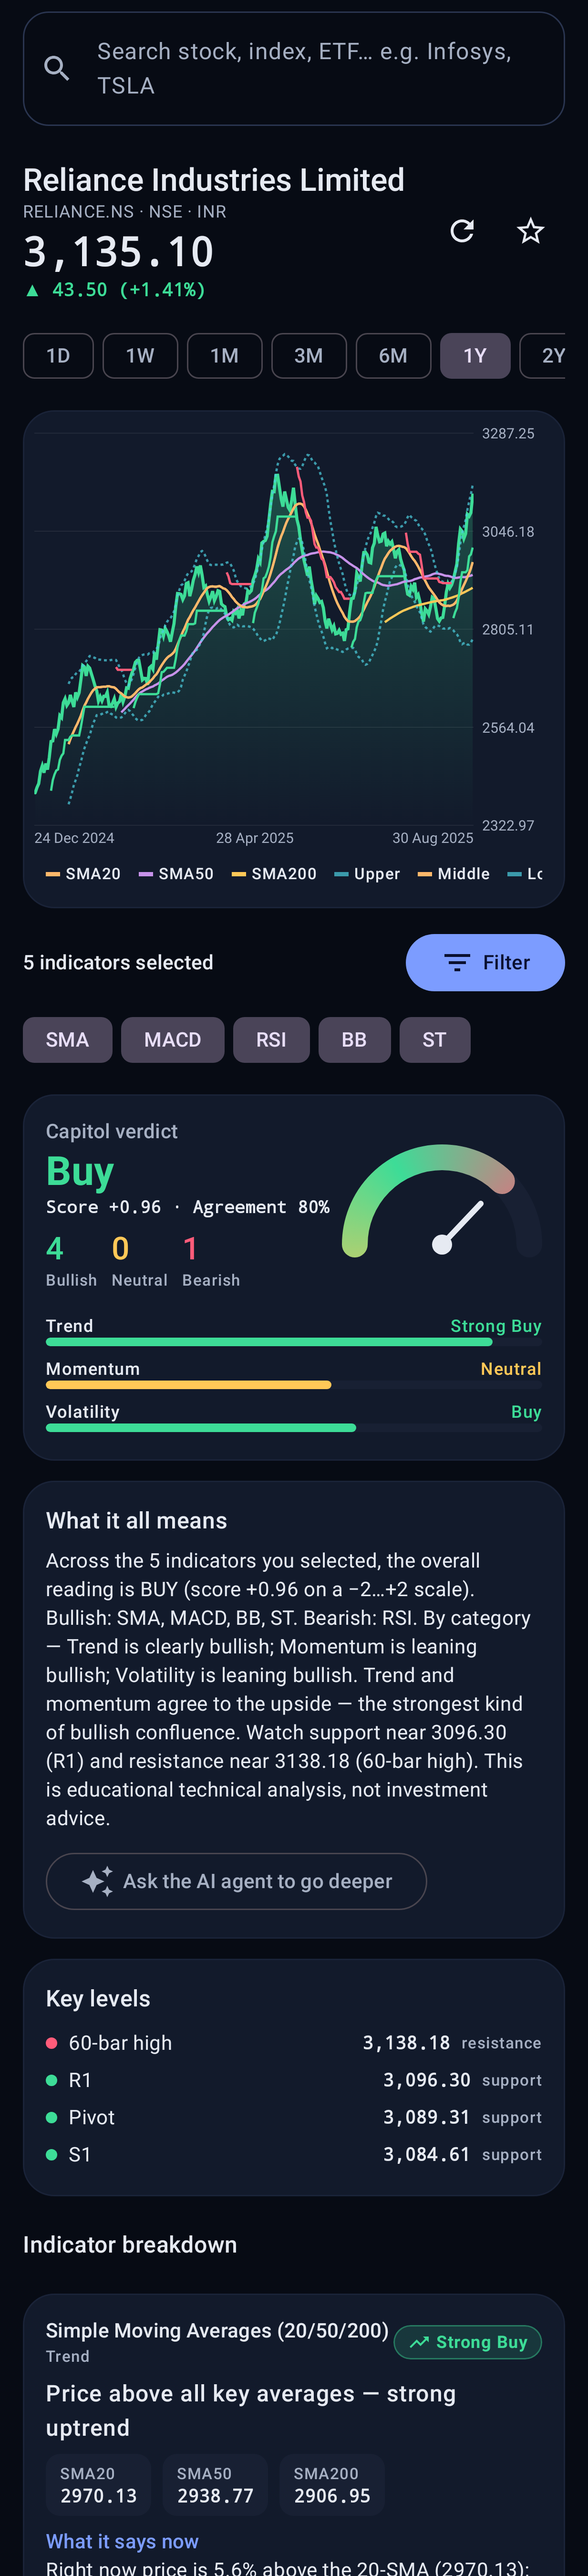
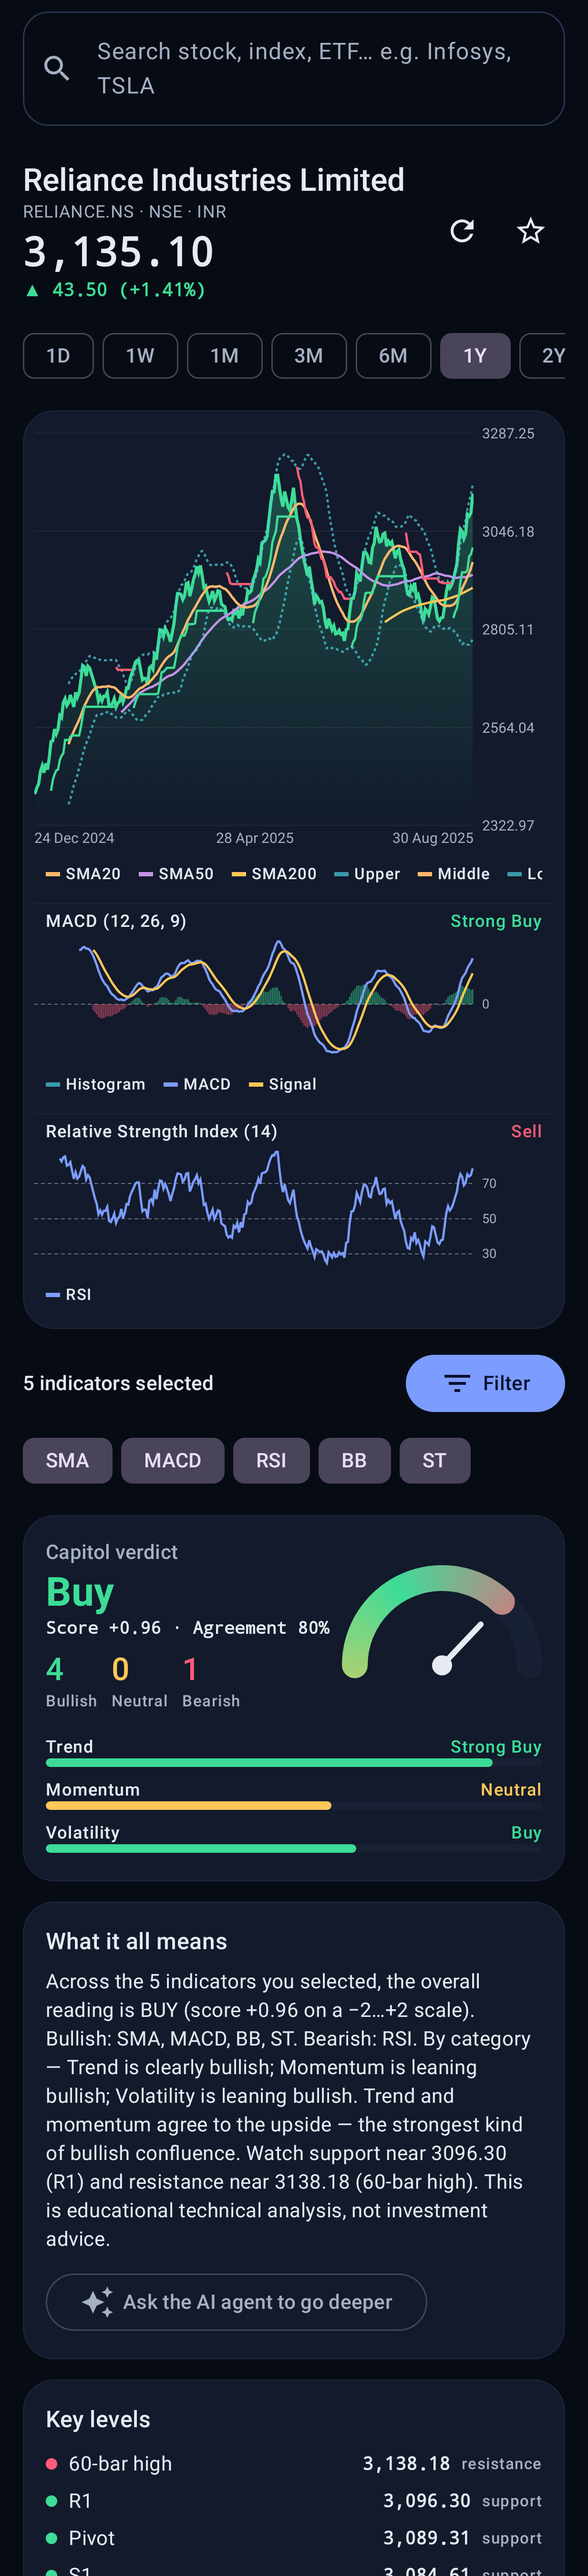
Fix home page watchlist sync, plot oscillators on chart, support US stocks in CSV import (#2)
* Add Capitol Android app: technical analysis, watchlist, AI agent, broker sync

- Kotlin/Jetpack Compose app with animated home page, dark/light themes
- Yahoo Finance data via yfinance endpoints on-device, or a bundled
  FastAPI service that wraps yfinance directly (backend/)
- 21 indicators with multi-select filter, per-indicator live explanations,
  composite verdict, key levels and synthesis of the selected set
- Watchlist with price alerts and background autopilot notifications
- Claude-powered agent (anthropic-java) using on-device analysis tools
- Read-only Zerodha Kite Connect and INDmoney (INDstocks) holdings sync,
  plus CSV import
- In-app updates: Play in-app update flow + GitHub Releases self-updater
- CI workflow building, testing and publishing release APKs
- Unit tests for indicator math, analyzer and parsers; screenshot tests

Claude-Session: https://claude.ai/code/session_01MYsMHGTrNtxnE7gzxN54RY

* Fix home page not reflecting watchlist changes; plot oscillators on the analysis chart

- HomeViewModel now observes the watchlist and default indicators and
  refreshes movers, heatmap, mood and breadth whenever they change
- Watchlist verdicts are recomputed when default indicators change
- Analysis chart draws every selected separate-pane indicator (RSI, MACD,
  Stochastic, ADX, OBV, MFI, CCI, %R, ROC, ATR, Volume) as a labelled pane
  under the price chart, with a hint when nothing is selected
[…]

Changed region(s): [[0.0308, 0.3422, 0.9862, 1.0]]

diff --git a/app/src/main/java/com/capitol/app/ui/portfolio/PortfolioScreen.kt b/app/src/main/java/com/capitol/app/ui/portfolio/PortfolioScreen.kt
@@ -32,6 +32,7 @@ import androidx.compose.material3.LinearProgressIndicator
 import androidx.compose.material3.MaterialTheme
 import androidx.compose.material3.OutlinedButton
 import androidx.compose.material3.OutlinedTextField
+import androidx.compose.material3.Switch
 import androidx.compose.material3.Text
 import androidx.compose.material3.TextButton
 import androidx.compose.runtime.Composable
@@ -52,6 +53,7 @@ import androidx.lifecycle.ViewModel
 import androidx.lifecycle.compose.collectAsStateWithLifecycle
 import androidx.lifecycle.viewModelScope
 import com.capitol.app.AppContainer
+import com.capitol.app.data.broker.CurrencyTotal
 import com.capitol.app.data.broker.Holding
 import com.capitol.app.data.broker.KiteConnectClient
 import com.capitol.app.data.prefs.SecretStore.Key
@@ -84,7 +86,11 @@ class PortfolioViewModel(val c: AppContainer) : ViewModel() {
     fun kiteLogout() { kite.logout(); refresh() }
     fun saveIndToken(token: String) { c.secrets.put(Key.INDMONEY_ACCESS_TOKEN, token); refresh() }
     fun indDisconnect() { ind.disconnect(); refresh() }
-    fun importCsv(text: String) { message.value = "Imported ${c.portfolio.importCsv(text)} holdings from CSV" }
+    fun importCsv(text: String, usStocks: Boolean) {
+        val n = c.portfolio.importCsv(text, usStocks)
+        message.value = if (n == 0) "No holdings found — the CSV needs symbol and quantity columns"
+        else "Imported $n ${if (usStocks) "US" else "Indian"} holdings from CSV"
+    }
 }
 
 @Composable
@@ -94,8 +100,9 @@ fun PortfolioScreen(vm: PortfolioViewModel, onAnalyze: (String) -> Unit, onAskAi
     val secretsV by vm.secretsVersion.collectAsStateWithLifecycle()
     var kiteLoginUrl by remember { mutableStateOf<String?>(null) }
     val ctx = LocalContext.current
+    var csvIsUs by remember { mutableStateOf(false) }
     val csvPicker = rememberLauncherForActivityResult(ActivityResultContracts.OpenDocument()) { uri ->
-        uri?.let { ctx.contentResolver.openInputStream(it)?.bufferedReader()?.use { r -> vm.importCsv(r.readText()) } }
+        uri?.let { ctx.contentResolver.openInputStream(it)?.bufferedReader()?.use { r -> vm.importCsv(r.readText(), csvIsUs) } }
     }
 
     LazyColumn(Modifier.fillMaxSize().statusBarsPadding(), contentPadding = PaddingValues(16.dp), verticalArrangement = Arrangement.spacedBy(12.dp)) {
@@ -113,7 +120,7 @@ fun PortfolioScreen(vm: PortfolioViewModel, onAnalyze: (String) -> Unit, onAskAi
         msg?.let { item { Text(it, color = MaterialTheme.colorScheme.primary) } }
         st.errors.forEach { e -> item { ErrorBanner(e) } }
         if (st.holdings.isNotEmpty()) {
-            item { SummaryCard(st.invested, st.current, st.pnl, st.pnlPercent) {
+            item { SummaryCard(st.totalsByCurrency) {
                 onAskAi("Review my portfolio holdings technically. Which positions look strongest and weakest, and what levels should I watch?")
             } }
             item { SectionTitle("Holdings (${st.holdings.size})") }
@@ -125,8 +132,17 @@ fun PortfolioScreen(vm: PortfolioViewModel, onAnalyze: (String) -> Unit, onAskAi
         item {
             CapitolCard {
                 Text("Import holdings CSV", style = MaterialTheme.typography.titleMedium)
-                Text("Export holdings from INDmoney (or any broker) and import them. Needs columns: symbol, quantity, average price (optional: ltp, exchange).",
+                Text("Export holdings from INDmoney (or any broker) and import them. Needs columns: symbol, quantity, average price (optional: ltp, exchange). Import Indian and US files separately — each import replaces earlier holdings of the same market.",
                     style = MaterialTheme.typography.bodySmall)
+                Spacer(Modifier.height(8.dp))
+                Row(verticalAlignment = Alignment.CenterVertically) {
+                    Column(Modifier.weight(1f)) {
+                        Text("These are US stocks", style = MaterialTheme.typography.bodyLarge)
+                        Text("Tickers like AAPL, NVDA (no .NS suffix), values in USD", style = MaterialTheme.typography.bodySmall,
+                            color = MaterialTheme.colorScheme.onSurfaceVariant)
+                    }
+                    Switch(csvIsUs, { csvIsUs = it })
+                }
                 Spacer(Modifier.height(8.dp))
                 OutlinedButton({ csvPicker.launch(arrayOf("text/*", "text/csv", "application/vnd.ms-excel")) }) {
                     Icon(Icons.Default.UploadFile, null); Spacer(Modifier.width(6.dp)); Text("Choose CSV")
@@ -141,13 +157,17 @@ fun PortfolioScreen(vm: PortfolioViewModel, onAnalyze: (String) -> Unit, onAskAi
 }
 
 @Composable
-private fun SummaryCard(invested: Double, current: Double, pnl: Double, pct: Double, onAskAi: () -> Unit) {
+private fun SummaryCard(totals: List<CurrencyTotal>, onAskAi: () -> Unit) {
     CapitolCard {
-        Text("Current value", style = MaterialTheme.typography.labelLarge, color = MaterialTheme.colorScheme.onSurfaceVariant)
-        AnimatedNumber(current, fontSize = 30)
-        Row {
-            Text("Invested %,.2f".format(invested), style = MaterialTheme.typography.bodySmall, modifier = Modifier.weight(1f))
-            Text("P&L %+,.2f (%+.2f%%)".format(pnl, pct), color = changeColor(pnl), style = NumberStyle.copy(fontSize = 13.sp))
+        totals.forEachIndexed { i, t ->
+            if (i > 0) Spacer(Modifier.height(10.dp))
+            Text("Current value · ${if (t.currency == "USD") "US stocks" else "Indian stocks"}", style = MaterialTheme.typography.labelLarge,
+                color = MaterialTheme.colorScheme.onSurfaceVariant)
+            AnimatedNumber(t.current, fontSize = 28, format = { "${t.symbol}%,.2f".format(it) })
+            Row {
+                Text("Invested ${t.symbol}%,.2f".format(t.invested), style = MaterialTheme.typography.bodySmall, modifier = Modifier.weight(1f))
+                Text("P&L %+,.2f (%+.2f%%)".format(t.pnl, t.pnlPercent), color = changeColor(t.pnl), style = NumberStyle.copy(fontSize = 13.sp))
+            }
         }
         Spacer(Modifier.height(8.dp))
         OutlinedButton(onAskAi) { Icon(Icons.Default.AutoAwesome, null); Spacer(Modifier.width(6.dp)); Text("AI portfolio review") }
@@ -160,11 +180,11 @@ private fun HoldingRow(h: Holding, onClick: () -> Unit) {
         Row(verticalAlignment = Alignment.CenterVertically) {
             Column(Modifier.weight(1f)) {
                 Text(h.tradingSymbol, style = MaterialTheme.typography.titleSmall)
-                Text("${h.broker.label} · ${h.exchange} · ${"%.0f".format(h.quantity)} @ ${"%,.2f".format(h.averagePrice)}",
+                Text("${h.broker.label} · ${h.exchange} · ${"%.4g".format(h.quantity)} @ ${"%,.2f".format(h.averagePrice)}",
                     style = MaterialTheme.typography.bodySmall, color = MaterialTheme.colorScheme.onSurfaceVariant)
             }
             Column(horizontalAlignment = Alignment.End) {
-                Text("%,.2f".format(h.current), style = NumberStyle.copy(fontSize = 14.sp))
+                Text((if (h.isUs) "$" else "₹") + "%,.2f".format(h.current), style = NumberStyle.copy(fontSize = 14.sp))
                 Text("%+,.2f (%+.1f%%)".format(h.pnl, h.pnlPercent), color = changeColor(h.pnl), style = NumberStyle.copy(fontSize = 12.sp))
             }
         }

diff --git a/app/src/main/java/com/capitol/app/ui/analysis/AnalysisScreen.kt b/app/src/main/java/com/capitol/app/ui/analysis/AnalysisScreen.kt
@@ -154,6 +154,20 @@ fun AnalysisScreen(vm: AnalysisViewModel, initialSymbol: String?, onAskAi: (Stri
                     CapitolCard(padding = PaddingValues(8.dp)) {
                         PriceChart(series.candles, overlays = overlays, levels = levels, mode = chartMode, intraday = st.range.isIntraday, height = 300.dp)
                         if (overlays.isNotEmpty()) Legend(overlays.map { it.name to it.role })
+                        // Oscillators / volume indicators get their own stacked panes under the price chart.
+                        report?.results?.filter { it.available && it.type.pane == Pane.SEPARATE && it.lines.isNotEmpty() }?.forEach { r ->
+                            HorizontalDivider(Modifier.padding(vertical = 4.dp), color = MaterialTheme.colorScheme.outline.copy(alpha = 0.3f))
+                            Row(Modifier.padding(horizontal = 8.dp), verticalAlignment = Alignment.CenterVertically) {
+                                Text(r.type.title, style = MaterialTheme.typography.labelMedium, modifier = Modifier.weight(1f), maxLines = 1, overflow = TextOverflow.Ellipsis)
+                                Text(r.signal.label, style = MaterialTheme.typography.labelMedium, color = signalColor(r.signal))
+                            }
+                            IndicatorPane(r.lines, levels = r.levels, height = 90.dp)
+                            Legend(r.lines.map { it.name to it.role })
+                        }
+                        if (overlays.isEmpty() && report?.results?.none { it.available && it.type.pane == Pane.SEPARATE } == true) {
+                            Text("Select indicators with the Filter button to plot them here.", style = MaterialTheme.typography.bodySmall,
+                                color = MaterialTheme.colorScheme.onSurfaceVariant, modifier = Modifier.padding(8.dp))
+                        }
                     }
                 }
             }
@@ -408,10 +422,6 @@ private fun IndicatorCard(r: IndicatorResult) {
                     }
                 }
             }
-        }
-        if (r.available && r.type.pane == Pane.SEPARATE && r.lines.isNotEmpty()) {
-            Spacer(Modifier.height(8.dp))
-            IndicatorPane(r.lines, levels = r.levels, height = 110.dp)
         }
         Spacer(Modifier.height(8.dp))
         Text("What it says now", style = MaterialTheme.typography.labelLarge, color = MaterialTheme.colorScheme.primary)

diff --git a/app/src/main/java/com/capitol/app/ui/home/HomeViewModel.kt b/app/src/main/java/com/capitol/app/ui/home/HomeViewModel.kt
@@ -14,6 +14,11 @@ import kotlinx.coroutines.flow.MutableStateFlow
 import kotlinx.coroutines.flow.StateFlow
 import kotlinx.coroutines.flow.asStateFlow
 import kotlinx.coroutines.flow.first
+import kotlinx.coroutines.coroutineScope
+import kotlinx.coroutines.flow.combine
+import kotlinx.coroutines.flow.distinctUntilChanged
+import kotlinx.coroutines.flow.drop
+import kotlinx.coroutines.flow.map
 import kotlinx.coroutines.launch
 
 data class MarketIndex(val symbol: String, val label: String, val region: String)
@@ -37,7 +42,30 @@ class HomeViewModel(private val c: AppContainer) : ViewModel() {
     private val _state = MutableStateFlow(HomeState())
     val state: StateFlow<HomeState> = _state.asStateFlow()
 
-    init { refresh() }
+    init {
+        refresh()
+        // Keep the home page in sync with the watchlist and default indicators.
+        viewModelScope.launch {
+            combine(
+                c.watchlist.items.map { items -> items.map { it.symbol } },
+                c.settings.settings.map { it.defaultIndicators },
+            ) { symbols, inds -> symbols to inds }
+                .distinctUntilChanged()
+                .drop(1) // the initial value is already handled by refresh()
+                .collect { (symbols, inds) -> refreshWatch(symbols, inds) }
+        }
+    }
+
+    /** Reloads only the watchlist-driven sections (movers, heatmap, mood, breadth). */
+    private suspend fun refreshWatch(symbols: List<String>, inds: Set<com.capitol.app.analysis.IndicatorType>) {
+        val series = coroutineScope {
+            symbols.map { s -> async { runCatching { c.market.history(s, ChartRange.Y1) }.getOrNull() } }.awaitAll().filterNotNull()
+        }
+        _state.value = _state.value.copy(
+            watch = series.map { s -> QuoteSnapshot(s.symbol, s.name, s.regularMarketPrice, s.change, s.changePercent, s.currency, s.closes.takeLast(40)) },
+            signals = series.map { TechnicalAnalyzer.analyze(it, inds) }.sortedByDescending { it.compositeScore },
+        )
+    }
 
     fun selectHero(index: MarketIndex) {
         _state.value = _state.value.copy(heroIndex = index)

diff --git a/app/src/main/java/com/capitol/app/data/broker/IndMoneyClient.kt b/app/src/main/java/com/capitol/app/data/broker/IndMoneyClient.kt
@@ -77,8 +77,10 @@ class IndMoneyClient(private val http: OkHttpClient, private val secrets: Secret
         /**
          * Parses a holdings CSV exported from INDmoney (or any broker). Expected columns
          * (case-insensitive, any order): symbol, quantity, avg price[, ltp][, exchange].
+         * Rows without a recognised exchange use [defaultExchange]: "NSE" for Indian
+         * stocks or "US" for US stocks. An explicit exchange column always wins.
          */
-        fun parseCsv(text: String): List<Holding> {
+        fun parseCsv(text: String, defaultExchange: String = "NSE"): List<Holding> {
             val lines = text.lines().map { it.trim() }.filter { it.isNotEmpty() }
             if (lines.size < 2) return emptyList()
             val header = lines.first().split(',').map { it.trim().lowercase().replace("\"", "") }
@@ -94,8 +96,16 @@ class IndMoneyClient(private val http: OkHttpClient, private val secrets: Secret
                 val sym = c.getOrNull(iSym)?.takeIf { it.isNotBlank() } ?: return@mapNotNull null
                 val qty = c.getOrNull(iQty)?.toDoubleOrNull() ?: return@mapNotNull null
                 val avg = c.getOrNull(iAvg)?.toDoubleOrNull() ?: 0.0
-                Holding(Broker.INDMONEY, sym.uppercase(), c.getOrNull(iEx)?.uppercase() ?: "NSE", qty, avg,
-                    c.getOrNull(iLtp)?.toDoubleOrNull() ?: avg, null)
+                val rawEx = c.getOrNull(iEx)?.trim()?.uppercase().orEmpty()
+                val ex = when {
+                    Holding.isUsExchange(rawEx) -> "US"
+                    rawEx.contains("BSE") -> "BSE"
+                    rawEx.contains("NSE") -> "NSE"
+                    else -> defaultExchange
+                }
+                // Strip Yahoo-style suffixes so ".NS"/".BO" tickers aren't doubled up.
+                val clean = sym.uppercase().removeSuffix(".NS").removeSuffix(".BO")
+                Holding(Broker.INDMONEY, clean, ex, qty, avg, c.getOrNull(iLtp)?.toDoubleOrNull() ?: avg, null)
             }
         }
     }

diff --git a/app/src/main/java/com/capitol/app/data/broker/PortfolioRepository.kt b/app/src/main/java/com/capitol/app/data/broker/PortfolioRepository.kt
@@ -12,10 +12,16 @@ data class PortfolioState(
     val loading: Boolean = false,
     val updatedAt: Long? = null,
 ) {
-    val invested get() = holdings.sumOf { it.invested }
-    val current get() = holdings.sumOf { it.current }
+    /** Totals per currency — INR and USD holdings are never summed together. */
+    val totalsByCurrency: List<CurrencyTotal> get() = holdings.groupBy { it.currency }.map { (ccy, hs) ->
+        CurrencyTotal(ccy, hs.sumOf { it.invested }, hs.sumOf { it.current })
+    }.sortedBy { if (it.currency == "INR") 0 else 1 }
+}
+
+data class CurrencyTotal(val currency: String, val invested: Double, val current: Double) {
     val pnl get() = current - invested
     val pnlPercent get() = if (invested == 0.0) 0.0 else pnl / invested * 100
+    val symbol get() = when (currency) { "INR" -> "₹"; "USD" -> "$"; else -> "$currency " }
 }
 
 class PortfolioRepository(val kite: KiteConnectClient, val indmoney: IndMoneyClient) {
@@ -36,11 +42,17 @@ class PortfolioRepository(val kite: KiteConnectClient, val indmoney: IndMoneyCli
         )
     }
 
-    fun importCsv(text: String): Int {
+    /**
+     * Imports a holdings CSV. Re-importing replaces earlier imported holdings of the
+     * same market (India or US), so an Indian and a US file can both be loaded.
+     */
+    fun importCsv(text: String, usStocks: Boolean = false): Int {
         val previous = imported
-        imported = IndMoneyClient.parseCsv(text)
+        val parsed = IndMoneyClient.parseCsv(text, if (usStocks) "US" else "NSE")
+        val markets = parsed.map { it.isUs }.toSet()
+        imported = previous.filterNot { it.isUs in markets } + parsed
         _state.value = _state.value.copy(holdings = _state.value.holdings.filter { it !in previous } + imported)
-        return imported.size
+        return parsed.size
     }
 
     val anyConnected get() = kite.isConnected || indmoney.isConnected || imported.isNotEmpty()

diff --git a/app/src/main/java/com/capitol/app/agent/AgentTools.kt b/app/src/main/java/com/capitol/app/agent/AgentTools.kt
@@ -122,8 +122,10 @@ class AgentTools(
                 portfolio.refresh()
                 val st = portfolio.state.value
                 (st.holdings.joinToString("\n") {
-                    "${it.yahooSymbol} [${it.broker.label}] qty ${it.quantity}, avg ${"%.2f".format(it.averagePrice)}, LTP ${"%.2f".format(it.lastPrice)}, P&L ${"%.2f".format(it.pnl)} (${"%+.2f".format(it.pnlPercent)}%)"
-                } + "\nTotal invested ${"%.2f".format(st.invested)}, current ${"%.2f".format(st.current)}, P&L ${"%+.2f".format(st.pnlPercent)}%" +
+                    "${it.yahooSymbol} [${it.broker.label}, ${it.currency}] qty ${it.quantity}, avg ${"%.2f".format(it.averagePrice)}, LTP ${"%.2f".format(it.lastPrice)}, P&L ${"%.2f".format(it.pnl)} (${"%+.2f".format(it.pnlPercent)}%)"
+                } + st.totalsByCurrency.joinToString("") { t ->
+                    "\nTotal (${t.currency}): invested ${"%.2f".format(t.invested)}, current ${"%.2f".format(t.current)}, P&L ${"%+.2f".format(t.pnlPercent)}%"
+                } +
                     st.errors.joinToString("") { "\nError: $it" })
             }
         }

diff --git a/app/src/main/java/com/capitol/app/data/broker/Holding.kt b/app/src/main/java/com/capitol/app/data/broker/Holding.kt
@@ -16,11 +16,19 @@ data class Holding(
     val pnl get() = current - invested
     val pnlPercent get() = if (invested == 0.0) 0.0 else pnl / invested * 100
 
-    /** Symbol in yfinance / Yahoo notation (NSE → .NS, BSE → .BO). */
-    val yahooSymbol: String get() = when (exchange.uppercase()) {
-        "NSE" -> "$tradingSymbol.NS"
-        "BSE" -> "$tradingSymbol.BO"
-        else -> tradingSymbol
+    val isUs: Boolean get() = isUsExchange(exchange)
+    val currency: String get() = if (isUs) "USD" else "INR"
+
+    /** Symbol in yfinance / Yahoo notation (NSE → .NS, BSE → .BO, US tickers unchanged). */
+    val yahooSymbol: String get() = when {
+        isUs -> tradingSymbol
+        exchange.equals("BSE", true) -> "$tradingSymbol.BO"
+        else -> "$tradingSymbol.NS"
+    }
+
+    companion object {
+        private val US_EXCHANGES = setOf("US", "USA", "NASDAQ", "NYSE", "AMEX", "NYSEARCA", "ARCA", "BATS", "NMS", "NYQ", "NGM", "NCM")
+        fun isUsExchange(ex: String) = ex.trim().uppercase().replace(" ", "") in US_EXCHANGES
     }
 }
 

diff --git a/app/src/main/java/com/capitol/app/ui/watchlist/WatchlistScreen.kt b/app/src/main/java/com/capitol/app/ui/watchlist/WatchlistScreen.kt
@@ -69,6 +69,9 @@ import kotlinx.coroutines.flow.MutableStateFlow
 import kotlinx.coroutines.flow.StateFlow
 import kotlinx.coroutines.flow.asStateFlow
 import kotlinx.coroutines.flow.first
+import kotlinx.coroutines.flow.distinctUntilChanged
+import kotlinx.coroutines.flow.drop
+import kotlinx.coroutines.flow.map
 import kotlinx.coroutines.launch
 
 data class WatchRow(val item: WatchItem, val series: PriceSeries?, val report: AnalysisReport?)
@@ -87,6 +90,12 @@ class WatchlistViewModel(private val c: AppContainer) : ViewModel() {
                 publish(items)
                 val missing = items.filter { it.symbol !in cache }
                 if (missing.isNotEmpty()) load(missing)
+            }
+        }
+        viewModelScope.launch {
+            c.settings.settings.map { it.defaultIndicators }.distinctUntilChanged().drop(1).collect { inds ->
+                cache.replaceAll { _, (s, _) -> s to s?.let { TechnicalAnalyzer.analyze(it, inds) } }
+                publish(c.watchlist.current())
             }
         }
     }

diff --git a/app/src/test/java/com/capitol/app/AnalyzerTest.kt b/app/src/test/java/com/capitol/app/AnalyzerTest.kt
@@ -70,6 +70,17 @@ class AnalyzerTest {
         assertEquals(1000.0, h[0].pnl, 1e-9)
     }
 
+    @Test fun csvImportUsStocks() {
+        // No exchange column: the "US stocks" switch decides.
+        val us = IndMoneyClient.parseCsv("Symbol,Quantity,Avg Price,LTP\nAAPL,2.5,180,230\nNVDA,5,95,140", defaultExchange = "US")
+        assertEquals(listOf("AAPL", "NVDA"), us.map { it.yahooSymbol })
+        assertTrue(us.all { it.currency == "USD" })
+        // Explicit exchange column wins over the default; Yahoo suffixes are not doubled.
+        val mixed = IndMoneyClient.parseCsv("Symbol,Qty,Avg Price,Exchange\nTSLA,1,200,NASDAQ\nINFY.NS,3,1500,\nTCS,1,3500,BSE")
+        assertEquals(listOf("TSLA", "INFY.NS", "TCS.BO"), mixed.map { it.yahooSymbol })
+        assertEquals(listOf("USD", "INR", "INR"), mixed.map { it.currency })
+    }
+
     @Test fun versionComparison() {
         assertTrue(UpdateManager.isNewer("1.2.10", "1.2.9"))
         assertTrue(UpdateManager.isNewer("2.0", "1.9.9"))
